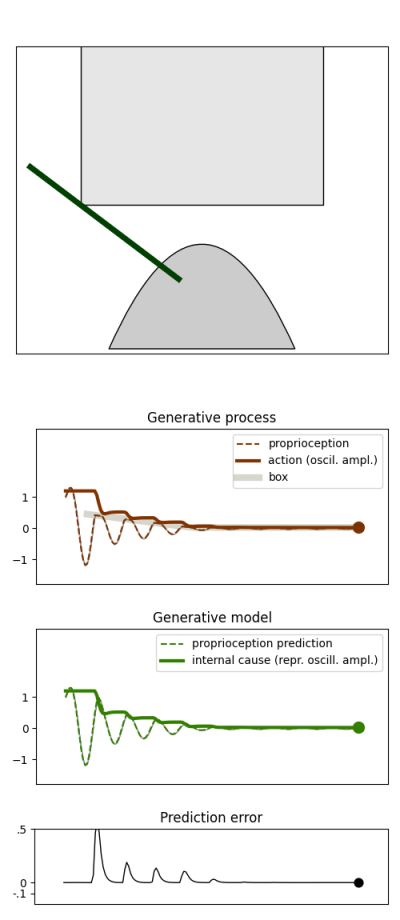
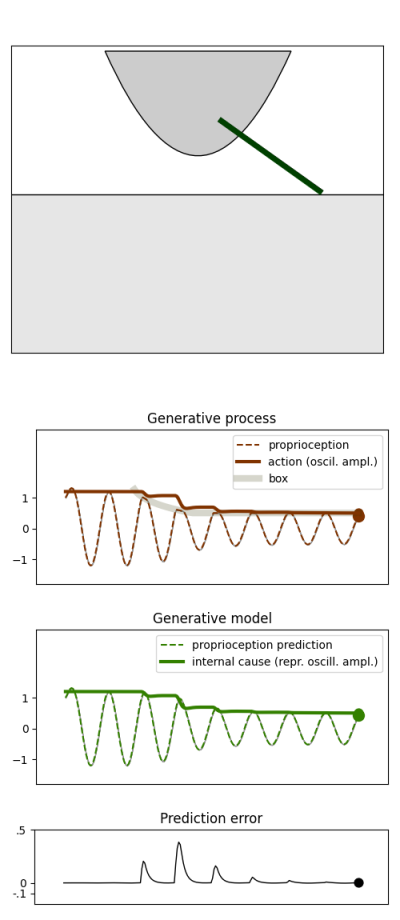
surface completed

diff --git a/src/sim.py b/src/sim.py
@@ -3,6 +3,7 @@ import numpy as np
 import matplotlib.pyplot as plt
 import matplotlib.path as mpath
 import matplotlib.patches as mpatches
+import sys
 Path = mpath.Path
 
 # %%
@@ -10,6 +11,7 @@ Path = mpath.Path
 
 def a2xy(angle, radius=1):
     return np.cos(angle)*radius, np.sin(angle)*radius
+
 
 def ik_angle(origin, point):
     x, y = np.vstack([origin, point])
@@ -20,6 +22,7 @@ def ik_angle(origin, point):
         aa = dy/dx
         angle = np.arctan(aa)
     return angle
+
 
 class Sim:
 
@@ -38,7 +41,9 @@ class Sim:
 
         self.whisker, = self.ax.plot(0, 0, c="k", lw=5)
         self.whisker_base = np.array([-0.25, 0])
-        self.whisker_len = 2
+        self.whisker_angle_ampl_scale = 0.35
+        self.whisker_base_angle = np.pi*0.05
+        self.whisker_len = 1.3
         self.whisker_init_angle = np.pi/4
         self.set_whisker(self.whisker_init_angle)
         self.ax.set_xlim([-2, 2])
@@ -46,7 +51,7 @@ class Sim:
 
         self.whisker_model, = self.ax.plot(0, 0, c="g", lw=5, alpha=0.5)
         self.whisker_model_base = np.array([-0.25, 0])
-        self.whisker_model_len = 2
+        self.whisker_model_len = 1.3
         self.whisker_model_init_angle = np.pi/4
         self.set_whisker_model(self.whisker_model_init_angle)
         self.ax.set_xlim([-2, 2])
@@ -90,25 +95,41 @@ class Sim:
         self.whisker_model.set_data(*self.whisker_model_vertices.T)
 
     def update(self, angle, angle_model):
-        angle = (0.3*angle + 0.2)*np.pi
-        angle_model = (0.3*angle_model+0.2)*np.pi
+        angle = self.whisker_angle_ampl_scale*angle * np.pi + \
+            self.whisker_base_angle
+        angle_model = self.whisker_angle_ampl_scale * angle_model*np.pi + \
+            self.whisker_base_angle
         self.set_whisker(angle)
         self.set_whisker_model(angle_model)
         self.fig.canvas.draw()
         self.vm.save_frame()
 
     def detect_collision(self):
-        angle_to_box_vertex = ik_angle(self.whisker_base, self.box_points[0])
-        angle_to_box_vertex = np.abs(angle_to_box_vertex+0.2*np.pi)
 
-        in_collision = self.box_points[0][1] < \
-            self.whisker_base[1] + self.whisker_len
+        box_height = self.box_points[0][1]
+        whisker_head = self.whisker_base + self.whisker_len
+
+        in_collision_with_vertex = box_height < whisker_head[1]
 
         collision = False
-        curr_angle_limit = 10
-        if in_collision:
-            curr_angle_limit = angle_to_box_vertex
+        curr_angle_limit = np.pi
+        if in_collision_with_vertex:
+
+            if self.box_points[0][0] > self.whisker_vertices[1][0]:
+                angle_to_box_vertex = ik_angle(self.whisker_base,
+                                               self.box_points[0])
+                angle_to_box_vertex = np.abs(angle_to_box_vertex +
+                                             self.whisker_base_angle)
+                curr_angle_limit = angle_to_box_vertex
+            else:
+                box_height_whisk_angle = -np.arcsin(
+                    (box_height - self.whisker_base[1]) / self.whisker_len)
+                box_height_whisk_angle = np.abs(
+                    box_height_whisk_angle + self.whisker_base_angle)
+                curr_angle_limit = box_height_whisk_angle
+
             collision = True
+
         return collision, curr_angle_limit
 
     def close(self):

diff --git a/src/demo.py b/src/demo.py
@@ -1,5 +1,5 @@
 from plotter import Plotter, PredErrPlotter
-from sim import Sim
+from sim import Sim, a2xy
 from aisailib import GP, GM
 import numpy as np
 
@@ -13,7 +13,7 @@ normal_box = np.array([
     (sidewidth, sideheight),
     (-sidewidth, sideheight)]) + center
 
-sidewidth = 1.3
+sidewidth = 5
 sideheight = 1.5
 center = [0, 1]
 large_box = np.array([
@@ -26,10 +26,10 @@ for type in ["normal", "large", "still"]:
 
     print("simulating", type, "...")
 
-    stime = 180000
+    stime = 240000
 
-    gp = GP(dt=0.0005, freq=0.5, amp=1.2)
-    gm = GM(dt=0.0005, freq=0.5, amp=1.2)
+    gp = GP(dt=0.0003, freq=0.5, amp=1.2)
+    gm = GM(dt=0.0003, freq=0.5, amp=1.2)
 
     sim = Sim("demo_"+type, points=normal_box
               if type == "normal" or type == "still" else large_box)
@@ -89,8 +89,12 @@ for type in ["normal", "large", "still"]:
 
             sim.set_box()
             sim.update(sens[t], sens_model[t])
+
+
             prederr.update([sens[t], sens_model[t]], t)
             genProcPlot.update([sens[t], ampl[t],
-                                curr_angle_limit if collision is True else None, 0], t)
+                                curr_angle_limit if collision
+                                is True else None, 0], t)
             genModPlot.update([sens_model[t], ampl_model[t],
-                               curr_angle_limit if collision is True else None, 0], t)
+                               curr_angle_limit if collision
+                               is True else None, 0], t)
